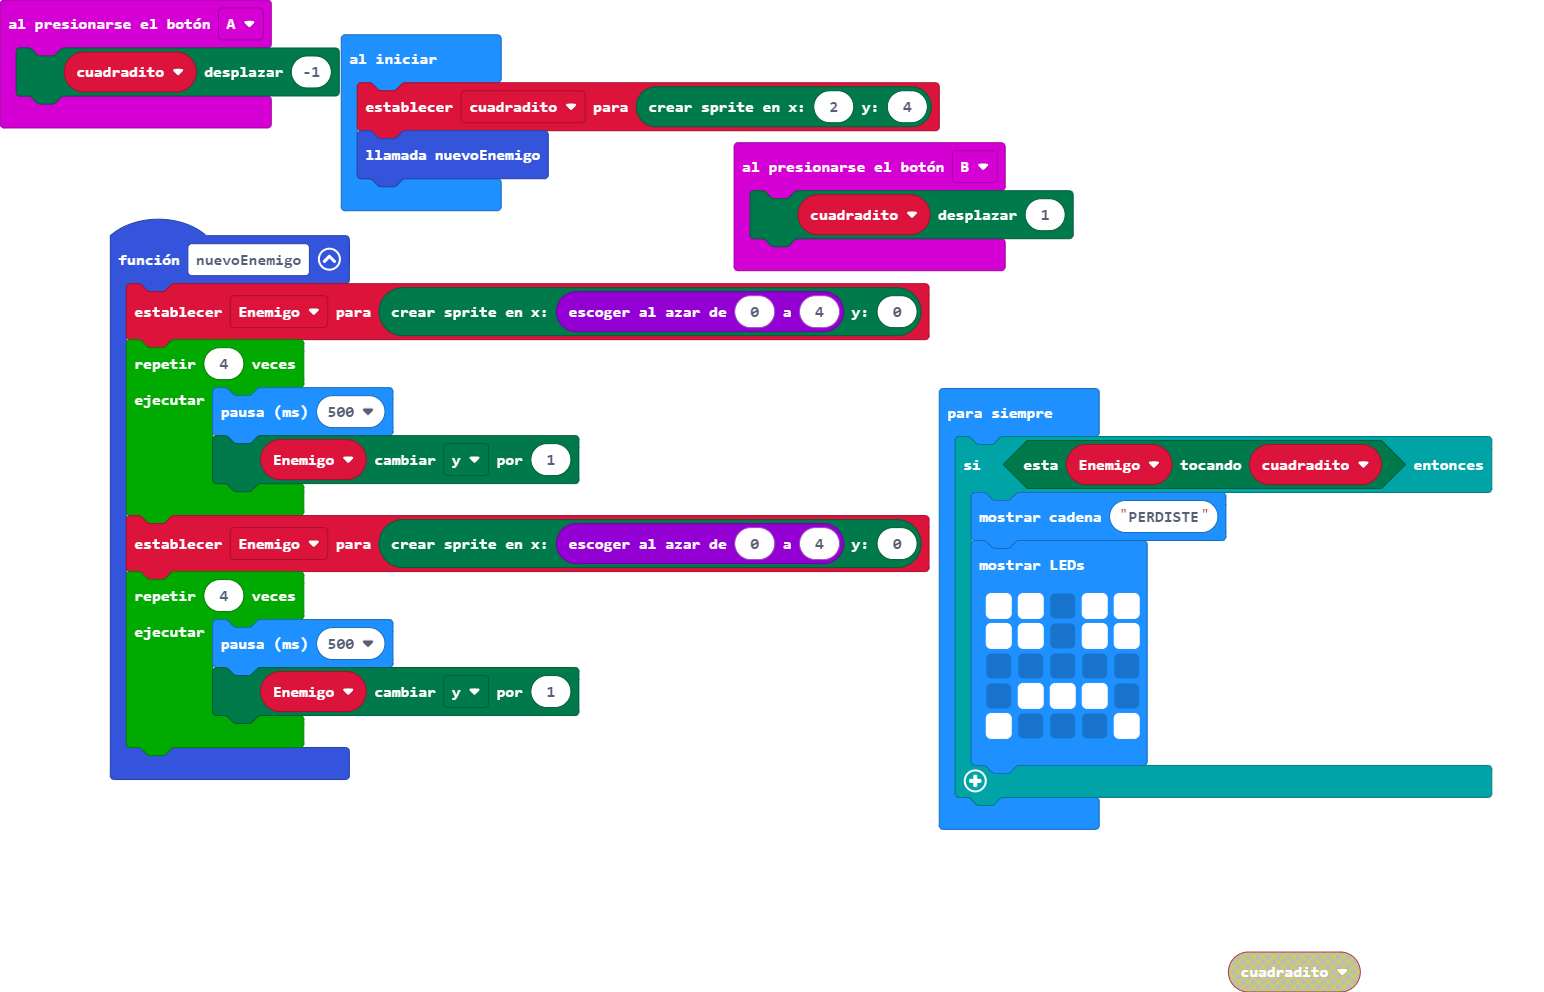
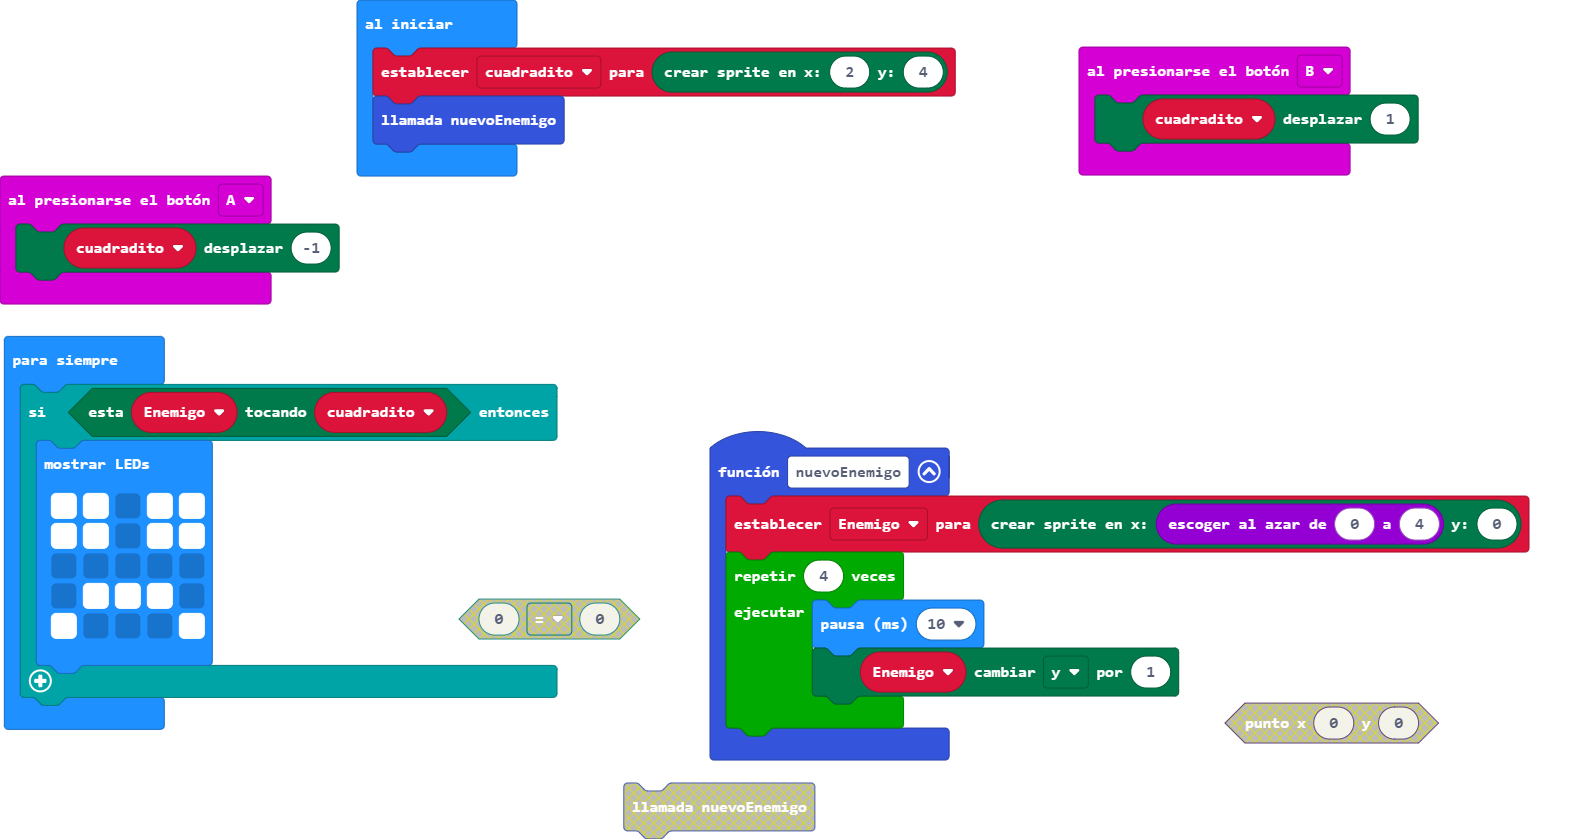
suerte  o no si te da instakill

diff --git a/main.ts b/main.ts
@@ -1,12 +1,7 @@
 function nuevoEnemigo () {
     Enemigo = game.createSprite(randint(0, 4), 0)
     for (let index = 0; index < 4; index++) {
-        basic.pause(500)
-        Enemigo.change(LedSpriteProperty.Y, 1)
-    }
-    Enemigo = game.createSprite(randint(0, 4), 0)
-    for (let index = 0; index < 4; index++) {
-        basic.pause(500)
+        basic.pause(10)
         Enemigo.change(LedSpriteProperty.Y, 1)
     }
 }
@@ -22,7 +17,6 @@ cuadradito = game.createSprite(2, 4)
 nuevoEnemigo()
 basic.forever(function () {
     if (Enemigo.isTouching(cuadradito)) {
-        basic.showString("PERDISTE")
         basic.showLeds(`
             # # . # #
             # # . # #
